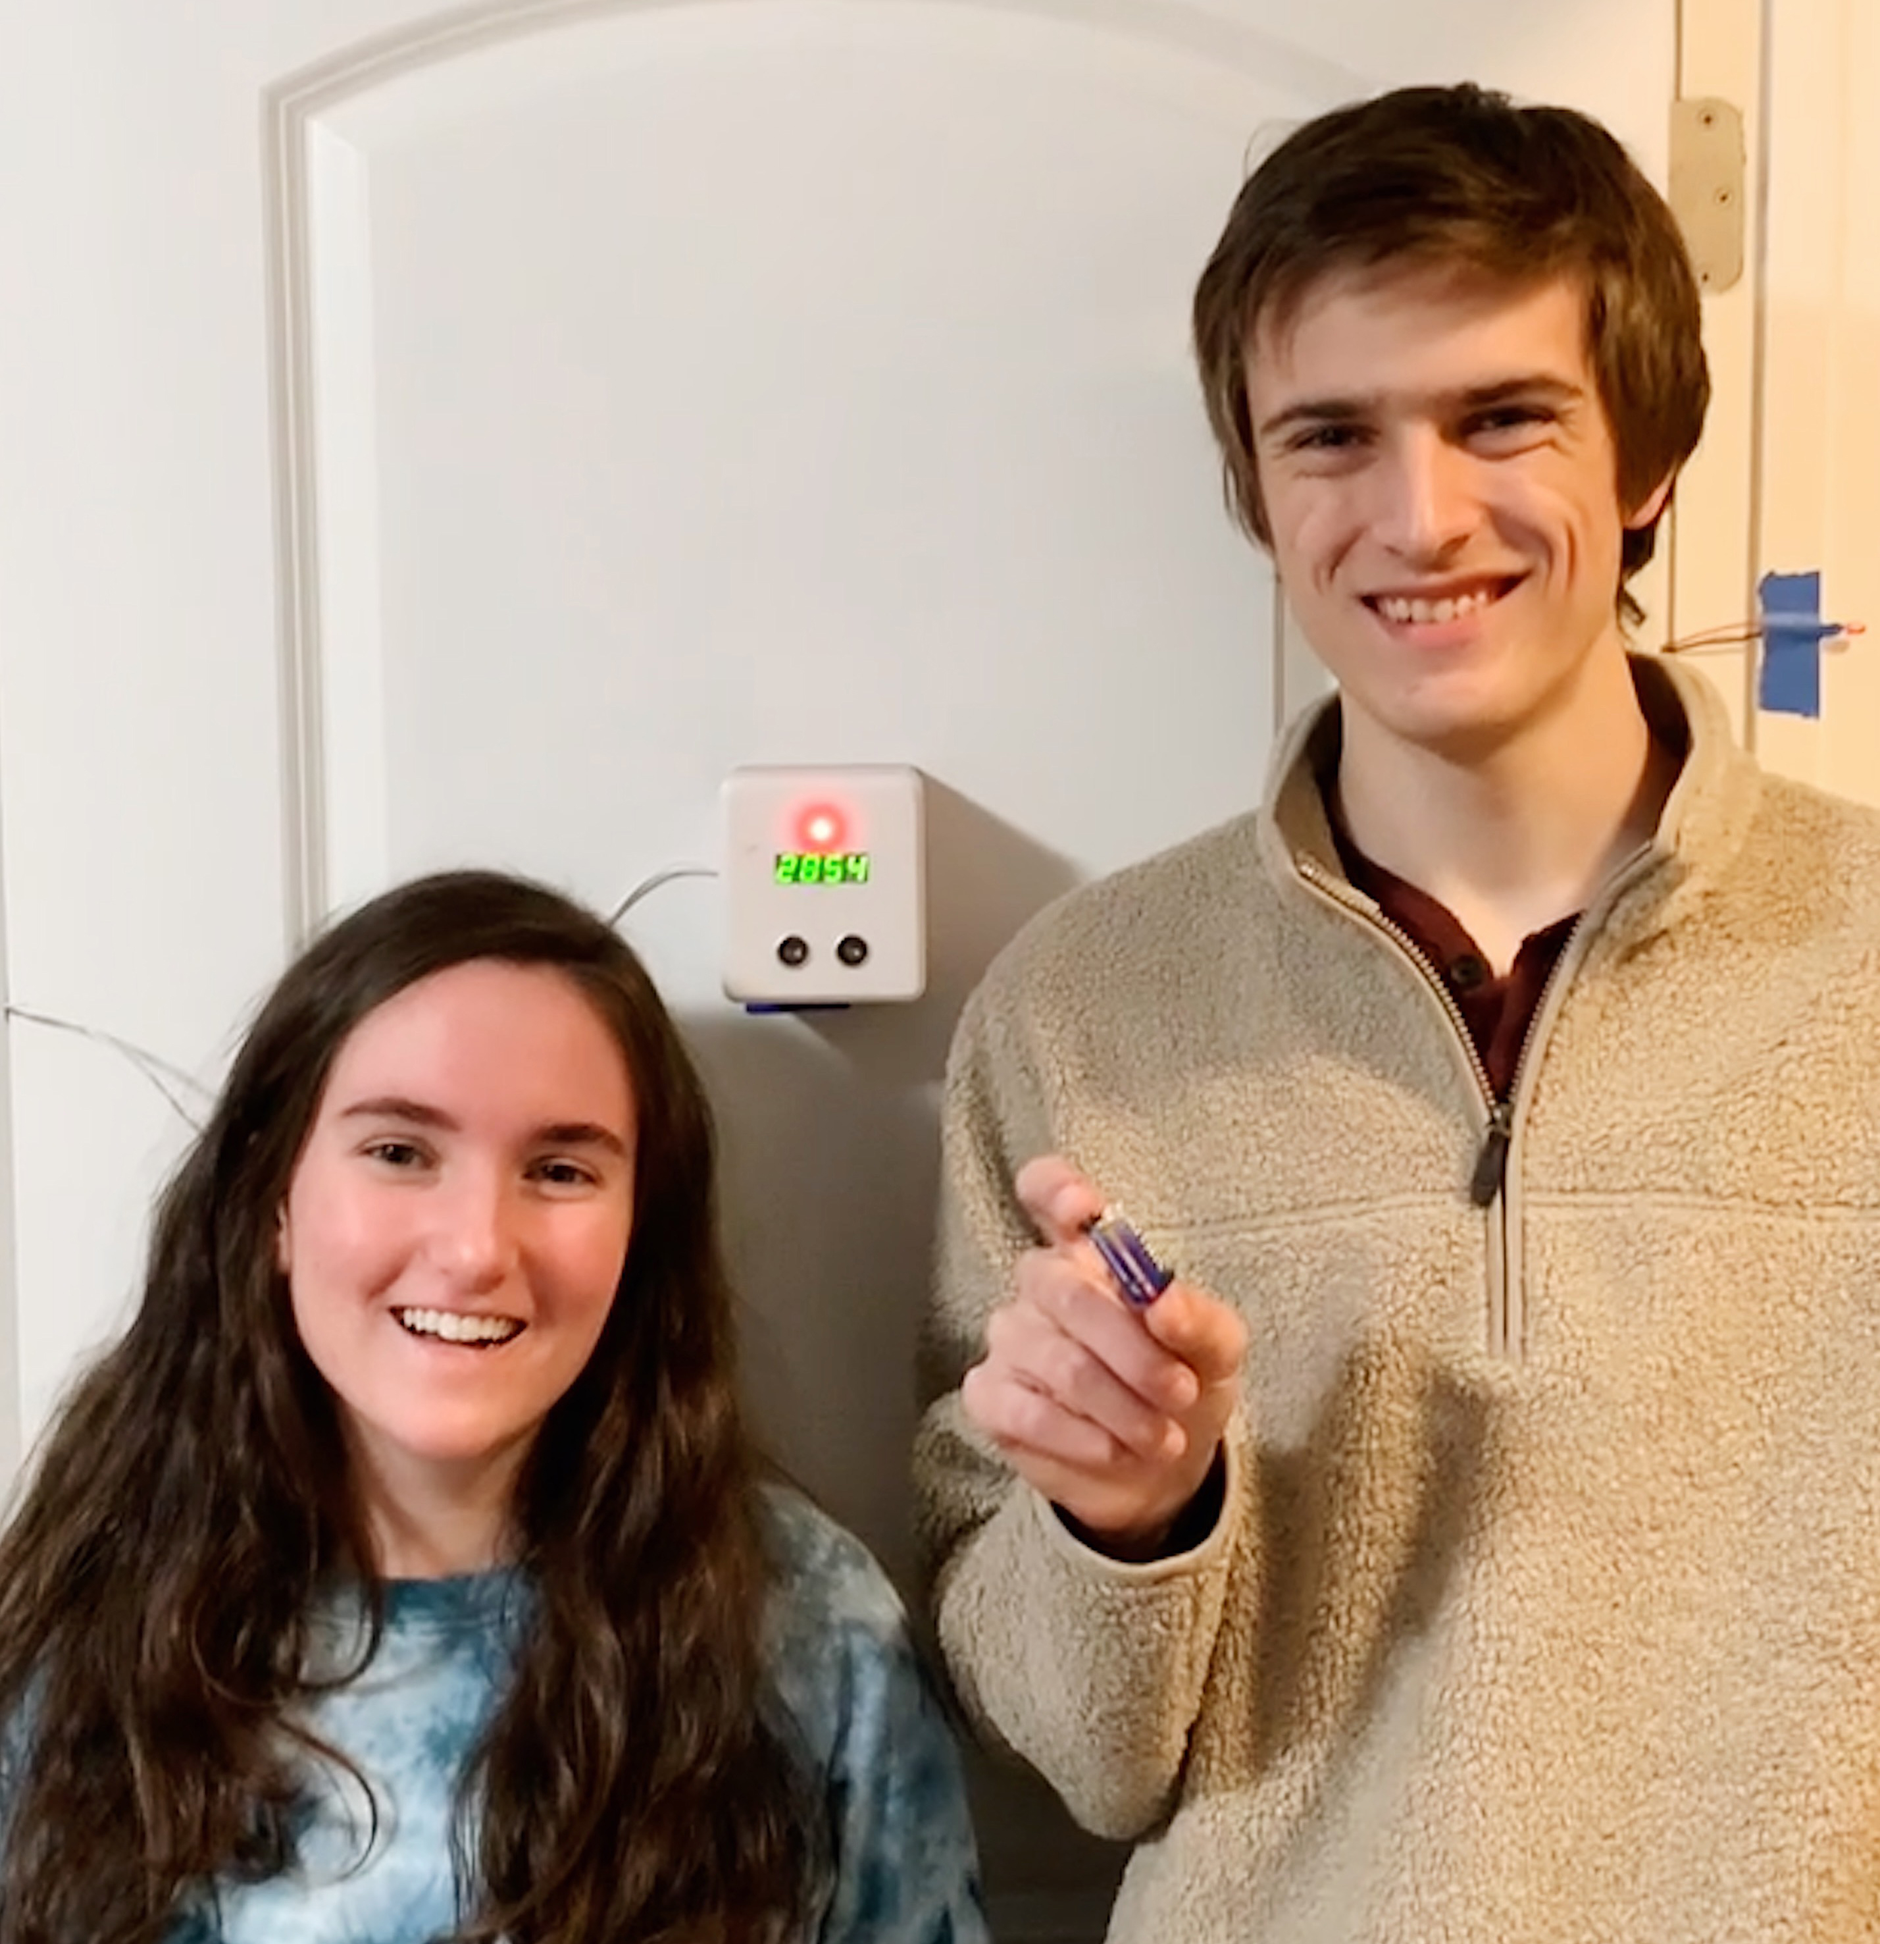
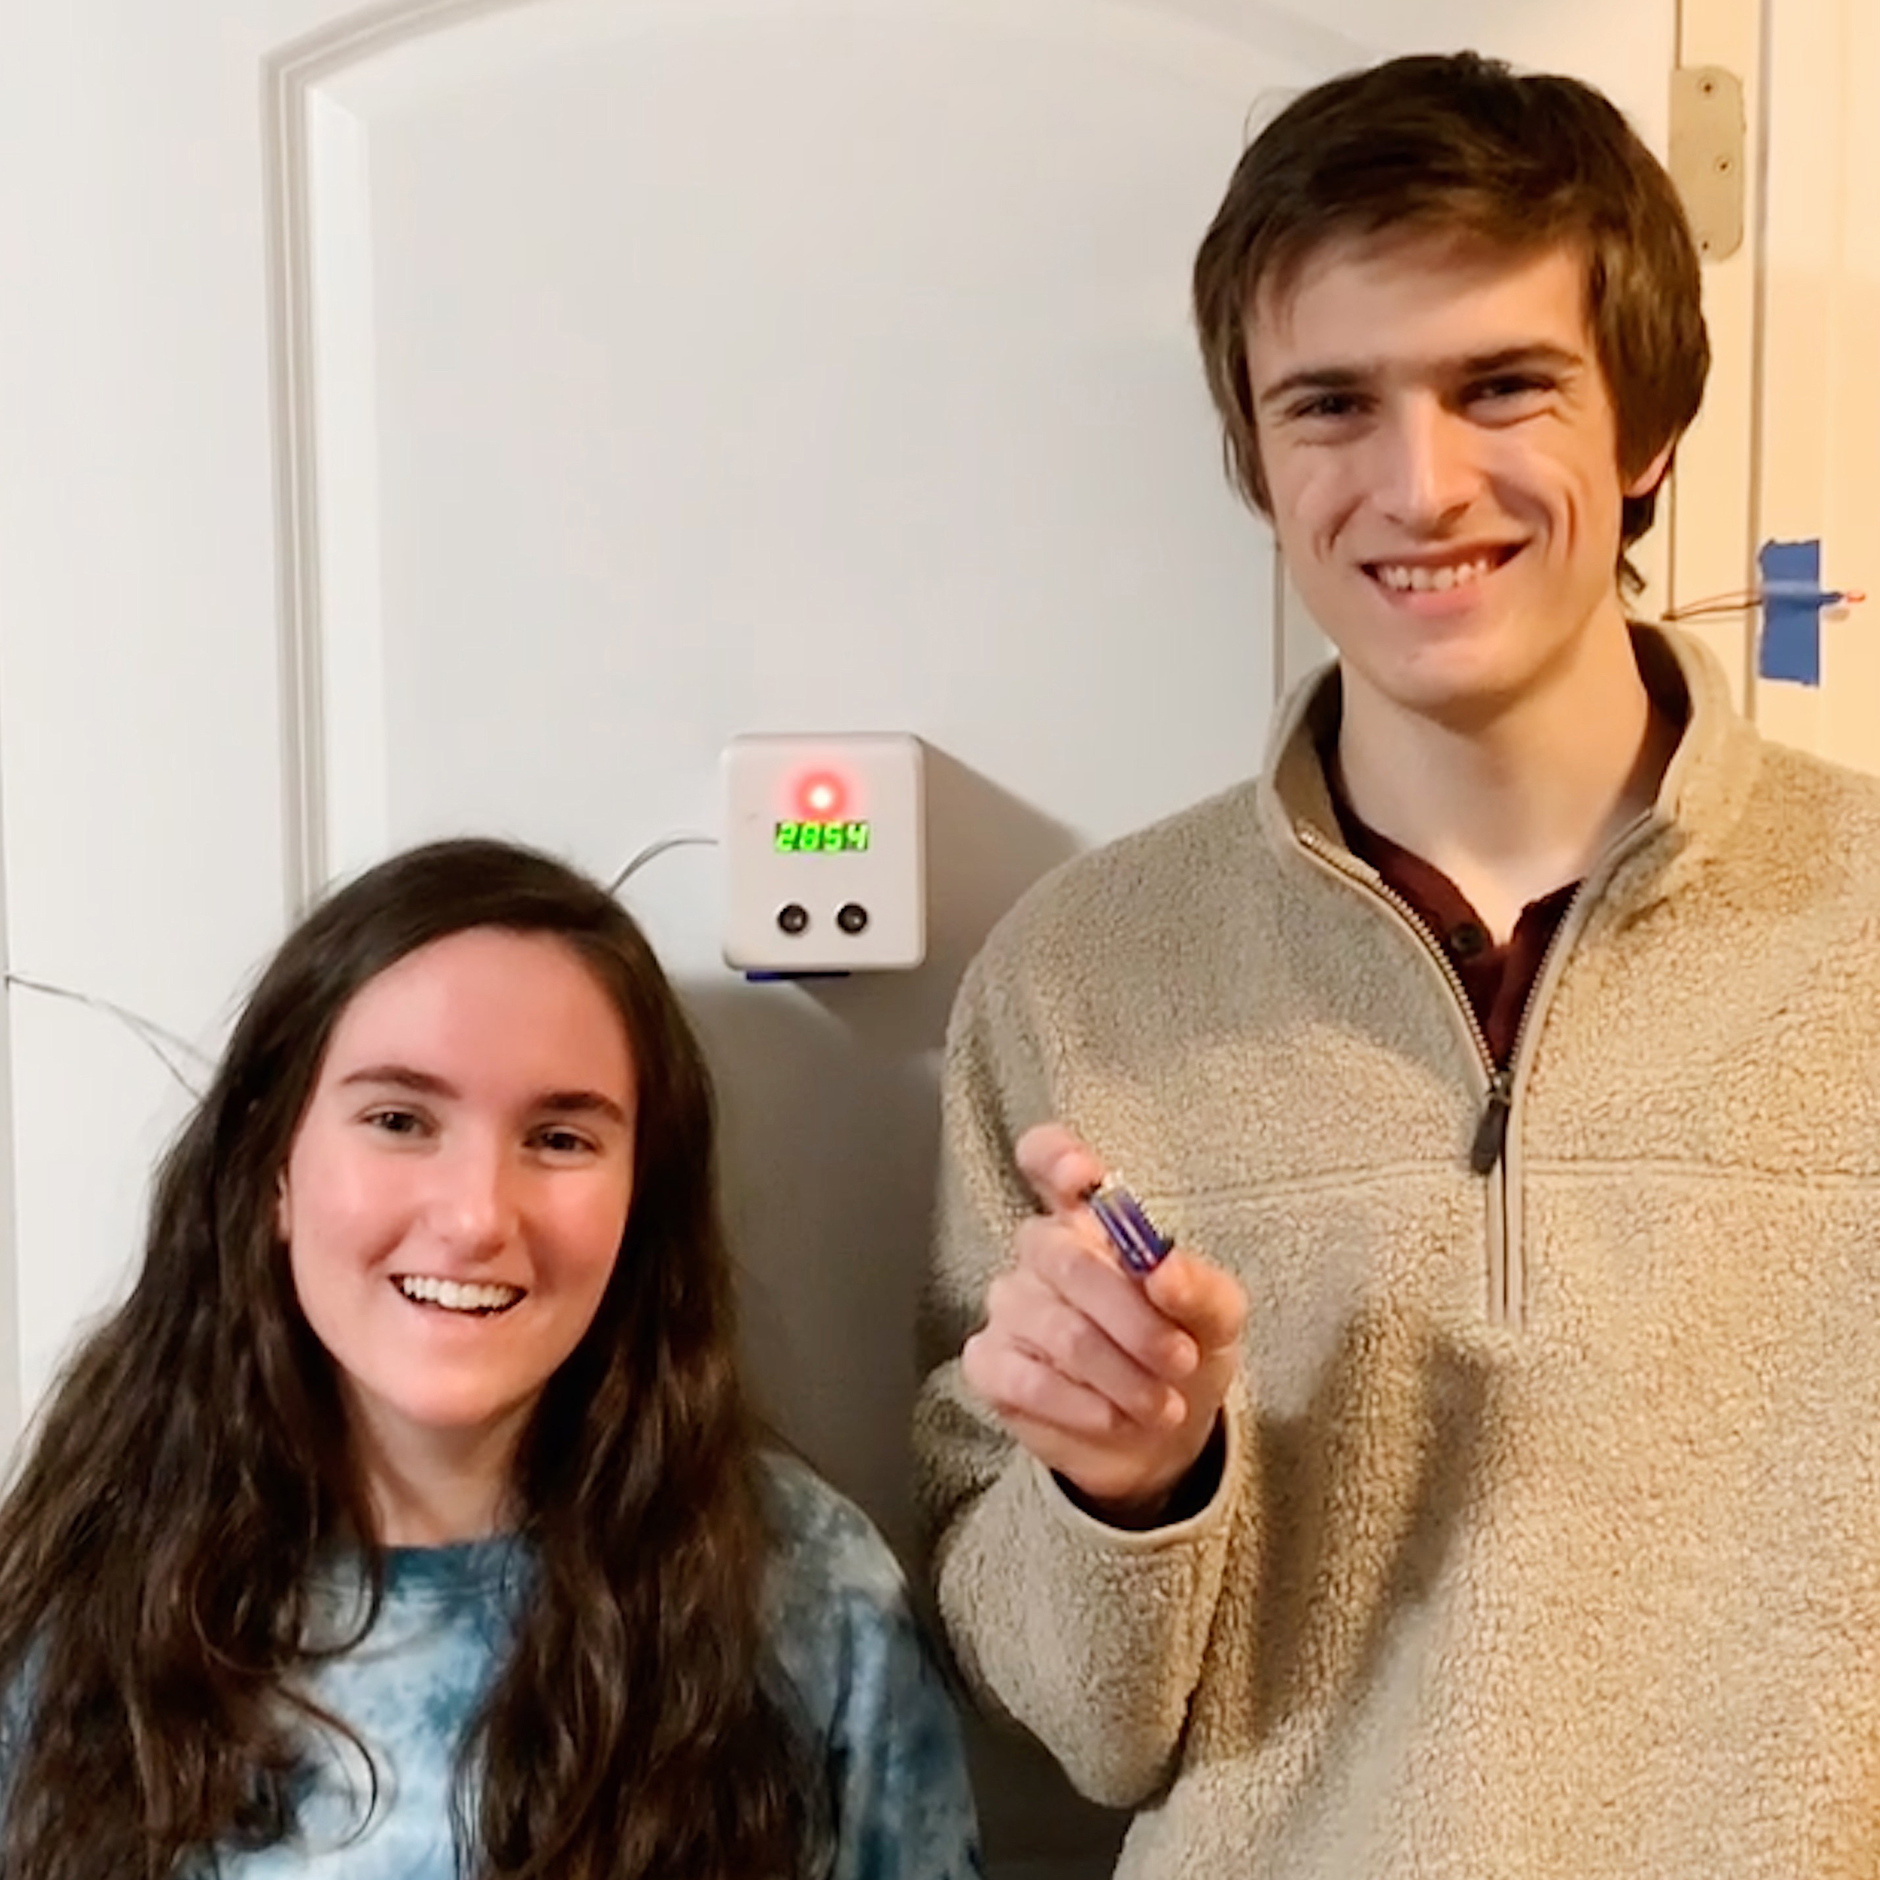
Added projects page

diff --git a/projects.html b/projects.html
@@ -41,16 +41,7 @@
 							<article class="post featured">
 								<header class="major">
 									<h1>Projects</h1>
-									<p>I coded a headless Raspberry Pi and camera module in Python to 1) detect and save images of a user's face to a directory with their name, 2) train a machine learning model on the images of the desired user's face versus the faces of other users, and 3) use the machine learning model to recognize the desired user's face among other faces.</p>
-								</header>
-								<header class="major">
-									<h2>Courtney Gibbons</h2>
-									<h3>About me</h3>
-									<div class="row">
-										<div class="col-3"><span></span></div>
-										<div class="col-6"><span class="image fit"><img src="images/profile.jpg" alt="" /></span></div>
-									</div>
-									<p style="margin-bottom: -24px;">Hi, my name is Courtney Gibbons!  I am in my third year studying electrical engineering at UCLA with a computer science technical breadth in the Fast Track to Success program.  This program selects 30 students to take honors classes and do research.  I currently research in the Quantum Biology Tech (QuBiT) lab, and I intern in the summers as a software engineer at Microsoft.  Outside of school and work, I love playing soccer, hiking, painting, and doing personal projects!</p>
+									<p style="margin-bottom: -24px;">Check out my projects which include a facial recognition system, static magnetic field research, and a hackathon-winning clock!</p>
 								</header>
 							</article>
 						
@@ -61,7 +52,7 @@
 										<span class="date">Club Project</span>
 										<h2><a href="facialRecognition.html">Facial Recognition</a></h2>
 									</header>
-									<a href="facialRecognition.html" class="image fit"><img src="images/ml2.png" alt="" /></a>
+									<a href="facialRecognition.html" class="image fit"><img src="images/ml2_sqaure.jpg" alt="" /></a>
 									<p>I coded a headless Raspberry Pi and camera module in Python to 1) detect and save images of a user's face to a directory with their name, 2) train a machine learning model on the images of the desired user's face versus the faces of other users, and 3) use the machine learning model to recognize the desired user's face among other faces.</p>
 									<ul class="actions special">
 										<li><a href="facialRecognition.html" class="button">check it out</a></li>
@@ -85,7 +76,7 @@
 										<span class="date">Class Project</span>
 										<h2><a href="inProgress.html">Wearable IoT with Machine Learning</a></h2>
 									</header>
-									<a href="inProgress.html" class="image fit"><img src="images/iot1.png" alt="" /></a>
+									<a href="inProgress.html" class="image fit"><img src="images/iot1_square.png" alt="" /></a>
 									<p>A bracelet uses gyroscope and accelerometer data to track if the user washed their hands, put on their mask, and picked up their phone before leaving the house.  It uses C code for Embedded ML on the STM32 SensorTile with IoT module.</p>
 									<ul class="actions special">
 										<li><a href="inProgress.html" class="button">check it out</a></li>

diff --git a/facialRecognition.html b/facialRecognition.html
@@ -38,13 +38,16 @@
 				<!-- Main -->
 					<div id="main">
 
-						<!-- Post -->
-							<section class="post">
+						<!-- Featured Post -->
+							<article class="post featured">
 								<header class="major">
 									<h1>Facial Recognition in Python</h1>
-									<p>I coded a headless Raspberry Pi and camera module in Python to 1) detect and save images of a user's face to a directory with their name, 2) train a machine learning model on the images of the desired user's face versus the faces of other users, and 3) use the machine learning model to recognize the desired user's face among other faces.</p>
+									<p style="margin-bottom: -24px;">I coded a headless Raspberry Pi and camera module in Python to 1) detect and save images of a user's face to a directory with their name, 2) train a machine learning model on the images of the desired user's face versus the faces of other users, and 3) use the machine learning model to recognize the desired user's face among other faces.</p>
 								</header>
-								<div class="image main"><img src="images/ml2.png" alt="" /></div>
+							</article>
+
+						<!-- Post -->
+							<section class="post">
 								<p>To detect the user's face, I used Open Source Computer Vision, or OpenCV, and Object Detection using Haar feature-based cascade classifiers.</p>
 								<div class="row">
 									<div class="col-3"><span></span></div>
